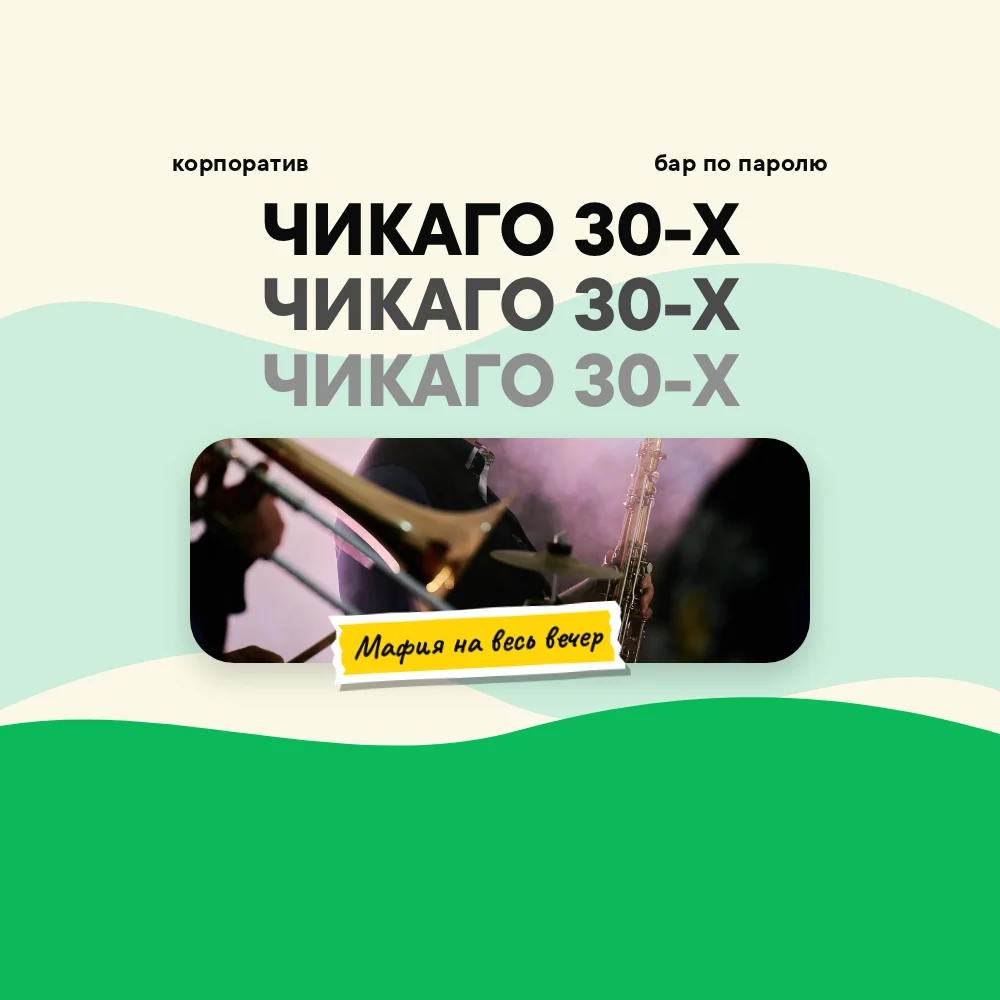
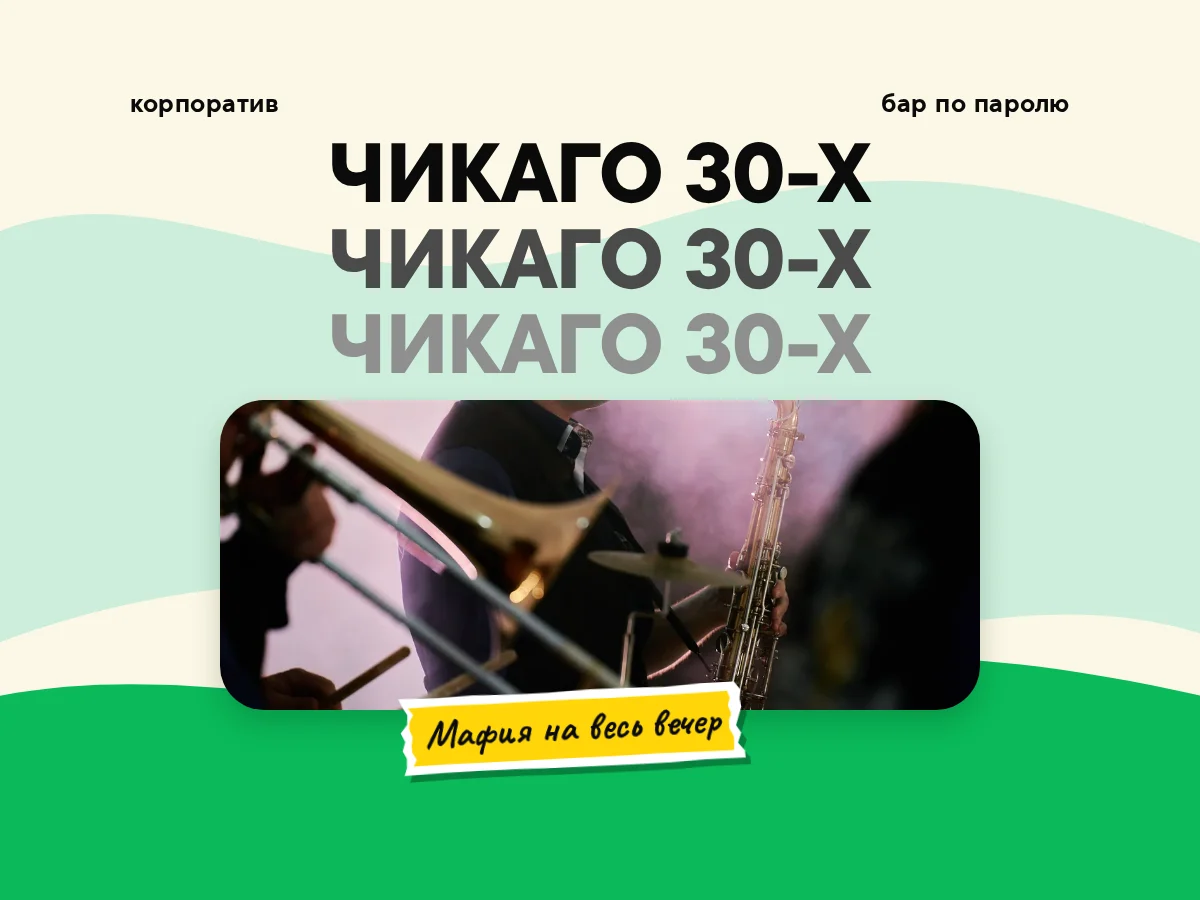
Обложки корпоративов v2: размеры карточек по живой странице, 4:3, логотип-наклейка

diff --git a/oblozhki-korporativy-v2-2026-11-25/index.html b/oblozhki-korporativy-v2-2026-11-25/index.html
@@ -16,12 +16,11 @@ section{margin-top:140px}.sub{margin:12px 0 0;max-width:820px;font-size:20px;lin
 .rf{margin:0}.rf img{width:100%;height:auto;border-radius:16px;display:block;background:#eee}
 .rf figcaption{font-size:14px;line-height:1.35;margin-top:8px;display:flex;flex-direction:column;gap:3px}.rf figcaption span{color:#5f6368}.rf figcaption a{color:#0a7a3a;word-break:break-all;font-size:12px}
 .an{margin:28px 0 0;padding:22px 26px;background:#f7f6f1;border-radius:24px;max-width:980px}.an h3{font:700 24px/1.2 TTCommonsPro,Arial,sans-serif;margin:0 0 10px}.an ul{margin:0;padding-left:20px}.an li{margin:6px 0}
-.row{display:flex;flex-wrap:wrap;gap:24px;margin-top:26px;align-items:flex-start}.col{width:390px;max-width:100%}.cap{font:500 14px/1.3 Roboto,Arial,sans-serif;color:#5f6368;margin:0 0 8px}
-.raw{width:390px;height:390px;max-width:100%;border-radius:24px;display:block}
-.catalog-card{position:relative;isolation:isolate;overflow:hidden;border-radius:32px;display:flex;flex-direction:column;justify-content:flex-end;background:#141414;color:#fff;min-width:0;width:390px;max-width:100%}
-.catalog-card.tall{height:580px}.catalog-card.reg{height:280px}
+.row{display:flex;flex-wrap:wrap;gap:24px;margin-top:26px;align-items:flex-start}.col{max-width:100%}.cap{font:500 14px/1.3 Roboto,Arial,sans-serif;color:#5f6368;margin:0 0 8px}
+.raw{width:400px;height:300px;max-width:100%;border-radius:24px;display:block}
+.catalog-card{position:relative;isolation:isolate;overflow:hidden;border-radius:32px;height:304px;background:#141414;min-width:0;max-width:100%}
 .catalog-card img{position:absolute;inset:0;width:100%;height:100%;object-fit:cover;z-index:-2}
-.catalog-card:before{content:"";position:absolute;inset:0;z-index:-1;background:linear-gradient(180deg,transparent 35%,rgba(0,0,0,.12) 48%,rgba(0,0,0,.8) 100%)}
+.catalog-card:before{content:"";position:absolute;inset:0;z-index:-1;background:linear-gradient(rgba(0,0,0,0) 45%,rgba(0,0,0,.55))}
 .catalog-card-copy{padding:24px 84px 24px 24px}.catalog-card-copy p{font:400 15px/1.4 Roboto,Arial,sans-serif;margin:0}
 .catalog-more{position:absolute;right:20px;bottom:20px;display:flex}.catalog-more svg{width:44px;height:44px;padding:10px;border-radius:50%;background:#fff;color:#141414}
 .catalog-card:hover .catalog-more svg{background:#ffdf4a}
@@ -29,7 +28,7 @@ section{margin-top:140px}.sub{margin:12px 0 0;max-width:820px;font-size:20px;lin
 <p class="lead">Один сценарий, «Чикаго 30-х: бар по паролю», в четырёх стилях. Сначала референсы: обложки роликов Никиты на YouTube-канале Каталиста. Потом четыре обложки в живых карточках страницы /korporativ/.</p>
 <p class="rec"><b>Мой выбор: 1, запасной 3.</b> Номер 1 ближе всего к тому, что ты просила: рваные буквы и стикеры как у Никиты. Его эффект держится на лице крупным планом, а в кадре Чикаго лица нет. Для боевых обложек нужны кадры с людьми. Номер 3 работает на любом фото и совпадает со стилем баннеров.</p>
 <nav><a href="#ref">Референсы Никиты</a><a href="#v1">1. Никита: коллаж</a><a href="#v2">2. Никита: спокойный</a><a href="#v3">3. Светлый со смайликом</a><a href="#v4">4. Типографика</a></nav>
-<section id="ref" style="margin-top:80px"><h2>Референсы: <span class="gr">обложки Никиты</span></h2><p class="sub">12 настоящих обложек с канала youtube.com/@catalystrussia (maxresdefault, i.ytimg.com). Клик по картинке открывает ролик. Ролик «Range Rover» на канале не нашёл: среди 70 просмотренных роликов его нет, поэтому разбор по четырём коллажам и серии «Формула 1».</p>
+<section id="ref" style="margin-top:80px"><h2>Референсы: <span class="gr">обложки Никиты</span></h2><p class="sub">12 настоящих обложек с канала youtube.com/@catalystrussia (maxresdefault, i.ytimg.com). Клик по картинке открывает ролик. Ролик «Range Rover» на канале не нашёл: среди 53 видео и 105 шортов канала его нет, веб-поиск тоже ничего не дал, поэтому разбор по четырём коллажам и серии «Формула 1».</p>
 <div class="rg"><figure class="rf"><a href="https://www.youtube.com/watch?v=jw4mtDzecjI" target="_blank" rel="noopener"><img src="img/ref-jw4mtDzecjI.webp" width="640" height="360" alt="WOW Башня: «200+ человек, 3 часа, одна башня»" loading="lazy"></a><figcaption><b>WOW Башня: «200+ человек, 3 часа, одна башня»</b><span>Коллаж: рваные буквы, человек в центре</span><a href="https://i.ytimg.com/vi/jw4mtDzecjI/maxresdefault.jpg" target="_blank" rel="noopener">https://i.ytimg.com/vi/jw4mtDzecjI/maxresdefault.jpg</a></figcaption></figure><figure class="rf"><a href="https://www.youtube.com/watch?v=VZgyesPKmw4" target="_blank" rel="noopener"><img src="img/ref-VZgyesPKmw4.webp" width="640" height="360" alt="Томск: «Каталист в Томске!»" loading="lazy"></a><figcaption><b>Томск: «Каталист в Томске!»</b><span>Коллаж: три человека, стикеры-вопросы</span><a href="https://i.ytimg.com/vi/VZgyesPKmw4/maxresdefault.jpg" target="_blank" rel="noopener">https://i.ytimg.com/vi/VZgyesPKmw4/maxresdefault.jpg</a></figcaption></figure><figure class="rf"><a href="https://www.youtube.com/watch?v=X9wzOCIaG00" target="_blank" rel="noopener"><img src="img/ref-X9wzOCIaG00.webp" width="640" height="360" alt="Мегаполис: «Ваша команда и ваш город»" loading="lazy"></a><figcaption><b>Мегаполис: «Ваша команда и ваш город»</b><span>Коллаж: человек в центре, город на фоне</span><a href="https://i.ytimg.com/vi/X9wzOCIaG00/maxresdefault.jpg" target="_blank" rel="noopener">https://i.ytimg.com/vi/X9wzOCIaG00/maxresdefault.jpg</a></figcaption></figure><figure class="rf"><a href="https://www.youtube.com/watch?v=ExsLcwoYyTw" target="_blank" rel="noopener"><img src="img/ref-ExsLcwoYyTw.webp" width="640" height="360" alt="Фестиваль фудтраков: «120+ человек создали вкусный фестиваль»" loading="lazy"></a><figcaption><b>Фестиваль фудтраков: «120+ человек создали вкусный фестиваль»</b><span>Коллаж: человек, еда, стикер-слоган</span><a href="https://i.ytimg.com/vi/ExsLcwoYyTw/maxresdefault.jpg" target="_blank" rel="noopener">https://i.ytimg.com/vi/ExsLcwoYyTw/maxresdefault.jpg</a></figcaption></figure><figure class="rf"><a href="https://www.youtube.com/watch?v=F_yYOKTMKI8" target="_blank" rel="noopener"><img src="img/ref-F_yYOKTMKI8.webp" width="640" height="360" alt="Формула 1: «На старт, внимание, Каталист!»" loading="lazy"></a><figcaption><b>Формула 1: «На старт, внимание, Каталист!»</b><span>Спокойный: кремовый фон, волны, заголовок трижды</span><a href="https://i.ytimg.com/vi/F_yYOKTMKI8/maxresdefault.jpg" target="_blank" rel="noopener">https://i.ytimg.com/vi/F_yYOKTMKI8/maxresdefault.jpg</a></figcaption></figure><figure class="rf"><a href="https://www.youtube.com/watch?v=y3XavL4hgF4" target="_blank" rel="noopener"><img src="img/ref-y3XavL4hgF4.webp" width="640" height="360" alt="«Это же просто тимбилдинг»" loading="lazy"></a><figcaption><b>«Это же просто тимбилдинг»</b><span>Спокойный: пост в рамке, логотип</span><a href="https://i.ytimg.com/vi/y3XavL4hgF4/maxresdefault.jpg" target="_blank" rel="noopener">https://i.ytimg.com/vi/y3XavL4hgF4/maxresdefault.jpg</a></figcaption></figure><figure class="rf"><a href="https://www.youtube.com/watch?v=AJOusoZUAog" target="_blank" rel="noopener"><img src="img/ref-AJOusoZUAog.webp" width="640" height="360" alt="«150 человек строили команду»" loading="lazy"></a><figcaption><b>«150 человек строили команду»</b><span>Кадр с рамкой камеры (REC), без заголовка</span><a href="https://i.ytimg.com/vi/AJOusoZUAog/maxresdefault.jpg" target="_blank" rel="noopener">https://i.ytimg.com/vi/AJOusoZUAog/maxresdefault.jpg</a></figcaption></figure><figure class="rf"><a href="https://www.youtube.com/watch?v=EZbsnXL16tc" target="_blank" rel="noopener"><img src="img/ref-EZbsnXL16tc.webp" width="640" height="360" alt="Фестиваль фудтраков (вторая версия)" loading="lazy"></a><figcaption><b>Фестиваль фудтраков (вторая версия)</b><span>Кадр из видео, без графики</span><a href="https://i.ytimg.com/vi/EZbsnXL16tc/maxresdefault.jpg" target="_blank" rel="noopener">https://i.ytimg.com/vi/EZbsnXL16tc/maxresdefault.jpg</a></figcaption></figure><figure class="rf"><a href="https://www.youtube.com/watch?v=NRoCOBLretU" target="_blank" rel="noopener"><img src="img/ref-NRoCOBLretU.webp" width="640" height="360" alt="«Ваша команда лучшая»" loading="lazy"></a><figcaption><b>«Ваша команда лучшая»</b><span>Кадр из видео, без графики</span><a href="https://i.ytimg.com/vi/NRoCOBLretU/maxresdefault.jpg" target="_blank" rel="noopener">https://i.ytimg.com/vi/NRoCOBLretU/maxresdefault.jpg</a></figcaption></figure><figure class="rf"><a href="https://www.youtube.com/watch?v=YHmzdsEqJTA" target="_blank" rel="noopener"><img src="img/ref-YHmzdsEqJTA.webp" width="640" height="360" alt="Фестиваль фудтраков (шорт)" loading="lazy"></a><figcaption><b>Фестиваль фудтраков (шорт)</b><span>Кадр с пастельным фильтром</span><a href="https://i.ytimg.com/vi/YHmzdsEqJTA/maxresdefault.jpg" target="_blank" rel="noopener">https://i.ytimg.com/vi/YHmzdsEqJTA/maxresdefault.jpg</a></figcaption></figure><figure class="rf"><a href="https://www.youtube.com/watch?v=9P1CB7C4vX0" target="_blank" rel="noopener"><img src="img/ref-9P1CB7C4vX0.webp" width="640" height="360" alt="Гонки на плотах" loading="lazy"></a><figcaption><b>Гонки на плотах</b><span>Кадр из видео, без графики</span><a href="https://i.ytimg.com/vi/9P1CB7C4vX0/maxresdefault.jpg" target="_blank" rel="noopener">https://i.ytimg.com/vi/9P1CB7C4vX0/maxresdefault.jpg</a></figcaption></figure><figure class="rf"><a href="https://www.youtube.com/watch?v=IX07QN0ya4s" target="_blank" rel="noopener"><img src="img/ref-IX07QN0ya4s.webp" width="640" height="360" alt="Тимбилдинг с нейросетями" loading="lazy"></a><figcaption><b>Тимбилдинг с нейросетями</b><span>Кадр с ведущим, плашка с именем</span><a href="https://i.ytimg.com/vi/IX07QN0ya4s/maxresdefault.jpg" target="_blank" rel="noopener">https://i.ytimg.com/vi/IX07QN0ya4s/maxresdefault.jpg</a></figcaption></figure></div>
 <div class="an"><h3>Из чего сделан стиль Никиты</h3><ul>
 <li><b>Заголовок.</b> Одно или два слова крупно. Каждая буква на отдельном рваном клочке: жёлтый, розовый, белый, голубой. Буквы чёрные, у клочка белая кайма и тень.</li>
@@ -38,5 +37,5 @@ section{margin-top:140px}.sub{margin:12px 0 0;max-width:820px;font-size:20px;lin
 <li><b>Стикеры.</b> Три или четыре рукописных надписи на клочках: вопрос-зацепка («Как мы строили город?», «Кому нужно?»), короткий итог, стрелки, коронки и значки-каракули.</li>
 <li><b>Логотип.</b> Фирменный знак «Каталист» наклейкой внизу справа.</li>
 <li><b>Спокойная серия.</b> Кремовый фон, цветные волны, заголовок три раза подряд, фото в скруглённой рамке, логотип внизу слева.</li></ul></div></section>
-<section style="margin-top:100px"><h2>Как <span class="gr">читать</span> карточки</h2><p class="sub">Заголовок на карточке сайта убран: на обложке уже крупный текст, и повтор выглядит лишним. Остались строка про гостей и стрелка. Плашки цены нет: её убрали 25.11. Обложка квадратная, в высокой карточке видна средняя часть по ширине, в обычной средняя по высоте, поэтому весь текст лежит в центре.</p></section>
-<section id="v1"><h2><span class="num">1</span>Никита: коллаж на ярком фото</h2><p class="sub">Как «Томск», «Мегаполис» и «WOW Башня»: рваные буквы, стикеры-вопросы, кроны-каракули.</p><p class="pm">Плюсы: самый близкий к роликам Никиты; название и вопрос-зацепка читаются сразу, стикер «Кто сдаст дона?» берёт из описания сценария.<br>Минусы: в кадре нет лица, поэтому нет живой эмоции, как у Никиты; для сильного эффекта нужен кадр с человеком крупным планом.</p><div class="row"><div class="col"><div class="cap">Сама обложка (1:1)</div><img class="raw" src="img/v1.webp" width="1000" height="1000" alt="Обложка 1" loading="lazy"></div><div class="col"><div class="cap">Высокая карточка, как первая на сайте</div><article class="catalog-card tall"><img src="img/v1.webp" alt="" loading="lazy"><div class="catalog-card-copy"><p>50-1000 гостей · в ресторане, в лофте</p></div><span class="catalog-more" aria-hidden="true"><svg viewBox="0 0 24 24" fill="none" stroke="currentColor" stroke-width="1.8"><path d="M5 12h14M13 6l6 6-6 6"/></svg></span></article></div><div class="col"><div class="cap">Обычная карточка</div><article class="catalog-card reg"><img src="img/v1.webp" alt="" loading="lazy"><div class="catalog-card-copy"><p>50-1000 гостей · в ресторане, в лофте</p></div><span class="catalog-more" aria-hidden="true"><svg viewBox="0 0 24 24" fill="none" stroke="currentColor" stroke-width="1.8"><path d="M5 12h14M13 6l6 6-6 6"/></svg></span></article></div></div></section><section id="v2"><h2><span class="num">2</span>Никита: спокойный, как «Формула 1»</h2><p class="sub">Кремовый фон, цветные волны, заголовок трижды, фото в скруглённой рамке, стикер.</p><p class="pm">Плюсы: чистый и лёгкий, хорошо стоит рядом с фото-карточками сайта; фото видно целиком.<br>Минусы: фото в рамке небольшое; в тесной карточке заголовок-тройка мельче, чем у остальных.</p><div class="row"><div class="col"><div class="cap">Сама обложка (1:1)</div><img class="raw" src="img/v2.webp" width="1000" height="1000" alt="Обложка 2" loading="lazy"></div><div class="col"><div class="cap">Высокая карточка, как первая на сайте</div><article class="catalog-card tall"><img src="img/v2.webp" alt="" loading="lazy"><div class="catalog-card-copy"><p>50-1000 гостей · в ресторане, в лофте</p></div><span class="catalog-more" aria-hidden="true"><svg viewBox="0 0 24 24" fill="none" stroke="currentColor" stroke-width="1.8"><path d="M5 12h14M13 6l6 6-6 6"/></svg></span></article></div><div class="col"><div class="cap">Обычная карточка</div><article class="catalog-card reg"><img src="img/v2.webp" alt="" loading="lazy"><div class="catalog-card-copy"><p>50-1000 гостей · в ресторане, в лофте</p></div><span class="catalog-more" aria-hidden="true"><svg viewBox="0 0 24 24" fill="none" stroke="currentColor" stroke-width="1.8"><path d="M5 12h14M13 6l6 6-6 6"/></svg></span></article></div></div></section><section id="v3"><h2><span class="num">3</span>Светлый со смайликом, как наши баннеры</h2><p class="sub">Канон баннеров: светлая панель, заголовок капсом, зелёная плашка, фото снизу, смайлик (без новогоднего декора).</p><p class="pm">Плюсы: один язык с рекламой и будущими обложками (8 Марта, шатры); текст чёрный на светлом, читается в любой карточке.<br>Минусы: самый спокойный из четырёх; верх обложки без картинки.</p><div class="row"><div class="col"><div class="cap">Сама обложка (1:1)</div><img class="raw" src="img/v3.webp" width="1000" height="1000" alt="Обложка 3" loading="lazy"></div><div class="col"><div class="cap">Высокая карточка, как первая на сайте</div><article class="catalog-card tall"><img src="img/v3.webp" alt="" loading="lazy"><div class="catalog-card-copy"><p>50-1000 гостей · в ресторане, в лофте</p></div><span class="catalog-more" aria-hidden="true"><svg viewBox="0 0 24 24" fill="none" stroke="currentColor" stroke-width="1.8"><path d="M5 12h14M13 6l6 6-6 6"/></svg></span></article></div><div class="col"><div class="cap">Обычная карточка</div><article class="catalog-card reg"><img src="img/v3.webp" alt="" loading="lazy"><div class="catalog-card-copy"><p>50-1000 гостей · в ресторане, в лофте</p></div><span class="catalog-more" aria-hidden="true"><svg viewBox="0 0 24 24" fill="none" stroke="currentColor" stroke-width="1.8"><path d="M5 12h14M13 6l6 6-6 6"/></svg></span></article></div></div></section><section id="v4"><h2><span class="num">4</span>Крупная типографика, доработанная</h2><p class="sub">Круг 1, №6: тот же ход, но теперь на реальном фото в тени, гигантское «30-х» и зелёная полоса.</p><p class="pm">Плюсы: максимум читаемости в мелкой карточке и в высоком слоте; $0 и собирается за минуту под любой сценарий.<br>Минусы: самый «шрифтовой»; от стиля Никиты и баннеров дальше всех.</p><div class="row"><div class="col"><div class="cap">Сама обложка (1:1)</div><img class="raw" src="img/v4.webp" width="1000" height="1000" alt="Обложка 4" loading="lazy"></div><div class="col"><div class="cap">Высокая карточка, как первая на сайте</div><article class="catalog-card tall"><img src="img/v4.webp" alt="" loading="lazy"><div class="catalog-card-copy"><p>50-1000 гостей · в ресторане, в лофте</p></div><span class="catalog-more" aria-hidden="true"><svg viewBox="0 0 24 24" fill="none" stroke="currentColor" stroke-width="1.8"><path d="M5 12h14M13 6l6 6-6 6"/></svg></span></article></div><div class="col"><div class="cap">Обычная карточка</div><article class="catalog-card reg"><img src="img/v4.webp" alt="" loading="lazy"><div class="catalog-card-copy"><p>50-1000 гостей · в ресторане, в лофте</p></div><span class="catalog-more" aria-hidden="true"><svg viewBox="0 0 24 24" fill="none" stroke="currentColor" stroke-width="1.8"><path d="M5 12h14M13 6l6 6-6 6"/></svg></span></article></div></div></section></main></body></html>
+<section style="margin-top:100px"><h2>Как <span class="gr">читать</span> карточки</h2><p class="sub">Размеры карточек сняты с живой страницы /korporativ/ 25.11: высота 304 пикселя, ширина от 335 до 471 в зависимости от экрана, скругление 32, градиент снизу. Высокой первой карточки там больше нет, плашки цены тоже. Заголовок поверх фото убран: на обложке уже крупный текст, и повтор выглядит лишним (строка про гостей на сайте скрыта). Обложка 4:3, как исходное фото. Карточка режет её по краям, поэтому весь текст лежит в центре, а стикеры не прижаты к краям.</p></section>
+<section id="v1"><h2><span class="num">1</span>Никита: коллаж на ярком фото</h2><p class="sub">Как «Томск», «Мегаполис» и «WOW Башня»: рваные буквы, стикеры-вопросы, кроны-каракули.</p><p class="pm">Плюсы: самый близкий к роликам Никиты; название и вопрос-зацепка читаются сразу, стикер «Кто сдаст дона?» берёт из описания сценария.<br>Минусы: в кадре нет лица, поэтому нет живой эмоции, как у Никиты; для сильного эффекта нужен кадр с человеком крупным планом.</p><div class="row"><div class="col" style="width:400px"><div class="cap">Сама обложка (4:3)</div><img class="raw" src="img/v1.webp" width="1200" height="900" alt="Обложка 1" loading="lazy"></div><div class="col" style="width:335px"><div class="cap">Карточка на экране 1440 (335 на 304)</div><article class="catalog-card" style="width:335px"><img src="img/v1.webp" alt="" loading="lazy"></article></div><div class="col" style="width:393px"><div class="cap">Экран 1920 (393 на 304)</div><article class="catalog-card" style="width:393px"><img src="img/v1.webp" alt="" loading="lazy"></article></div><div class="col" style="width:471px"><div class="cap">Экран 1024, две колонки (471 на 304)</div><article class="catalog-card" style="width:471px"><img src="img/v1.webp" alt="" loading="lazy"></article></div></div></section><section id="v2"><h2><span class="num">2</span>Никита: спокойный, как «Формула 1»</h2><p class="sub">Кремовый фон, цветные волны, заголовок трижды, фото в скруглённой рамке, стикер.</p><p class="pm">Плюсы: чистый и лёгкий, хорошо стоит рядом с фото-карточками сайта; фото видно целиком.<br>Минусы: фото в рамке небольшое; в тесной карточке заголовок-тройка мельче, чем у остальных.</p><div class="row"><div class="col" style="width:400px"><div class="cap">Сама обложка (4:3)</div><img class="raw" src="img/v2.webp" width="1200" height="900" alt="Обложка 2" loading="lazy"></div><div class="col" style="width:335px"><div class="cap">Карточка на экране 1440 (335 на 304)</div><article class="catalog-card" style="width:335px"><img src="img/v2.webp" alt="" loading="lazy"></article></div><div class="col" style="width:393px"><div class="cap">Экран 1920 (393 на 304)</div><article class="catalog-card" style="width:393px"><img src="img/v2.webp" alt="" loading="lazy"></article></div><div class="col" style="width:471px"><div class="cap">Экран 1024, две колонки (471 на 304)</div><article class="catalog-card" style="width:471px"><img src="img/v2.webp" alt="" loading="lazy"></article></div></div></section><section id="v3"><h2><span class="num">3</span>Светлый со смайликом, как наши баннеры</h2><p class="sub">Канон баннеров: светлая панель, заголовок капсом, зелёная плашка, фото снизу, смайлик (без новогоднего декора).</p><p class="pm">Плюсы: один язык с рекламой и будущими обложками (8 Марта, шатры); текст чёрный на светлом, читается в любой карточке.<br>Минусы: самый спокойный из четырёх; верх обложки без картинки.</p><div class="row"><div class="col" style="width:400px"><div class="cap">Сама обложка (4:3)</div><img class="raw" src="img/v3.webp" width="1200" height="900" alt="Обложка 3" loading="lazy"></div><div class="col" style="width:335px"><div class="cap">Карточка на экране 1440 (335 на 304)</div><article class="catalog-card" style="width:335px"><img src="img/v3.webp" alt="" loading="lazy"></article></div><div class="col" style="width:393px"><div class="cap">Экран 1920 (393 на 304)</div><article class="catalog-card" style="width:393px"><img src="img/v3.webp" alt="" loading="lazy"></article></div><div class="col" style="width:471px"><div class="cap">Экран 1024, две колонки (471 на 304)</div><article class="catalog-card" style="width:471px"><img src="img/v3.webp" alt="" loading="lazy"></article></div></div></section><section id="v4"><h2><span class="num">4</span>Крупная типографика, доработанная</h2><p class="sub">Круг 1, №6: тот же ход, но теперь на реальном фото в тени, гигантское «30-х» и зелёная полоса.</p><p class="pm">Плюсы: максимум читаемости в мелкой карточке и в высоком слоте; $0 и собирается за минуту под любой сценарий.<br>Минусы: самый «шрифтовой»; от стиля Никиты и баннеров дальше всех.</p><div class="row"><div class="col" style="width:400px"><div class="cap">Сама обложка (4:3)</div><img class="raw" src="img/v4.webp" width="1200" height="900" alt="Обложка 4" loading="lazy"></div><div class="col" style="width:335px"><div class="cap">Карточка на экране 1440 (335 на 304)</div><article class="catalog-card" style="width:335px"><img src="img/v4.webp" alt="" loading="lazy"></article></div><div class="col" style="width:393px"><div class="cap">Экран 1920 (393 на 304)</div><article class="catalog-card" style="width:393px"><img src="img/v4.webp" alt="" loading="lazy"></article></div><div class="col" style="width:471px"><div class="cap">Экран 1024, две колонки (471 на 304)</div><article class="catalog-card" style="width:471px"><img src="img/v4.webp" alt="" loading="lazy"></article></div></div></section></main></body></html>
